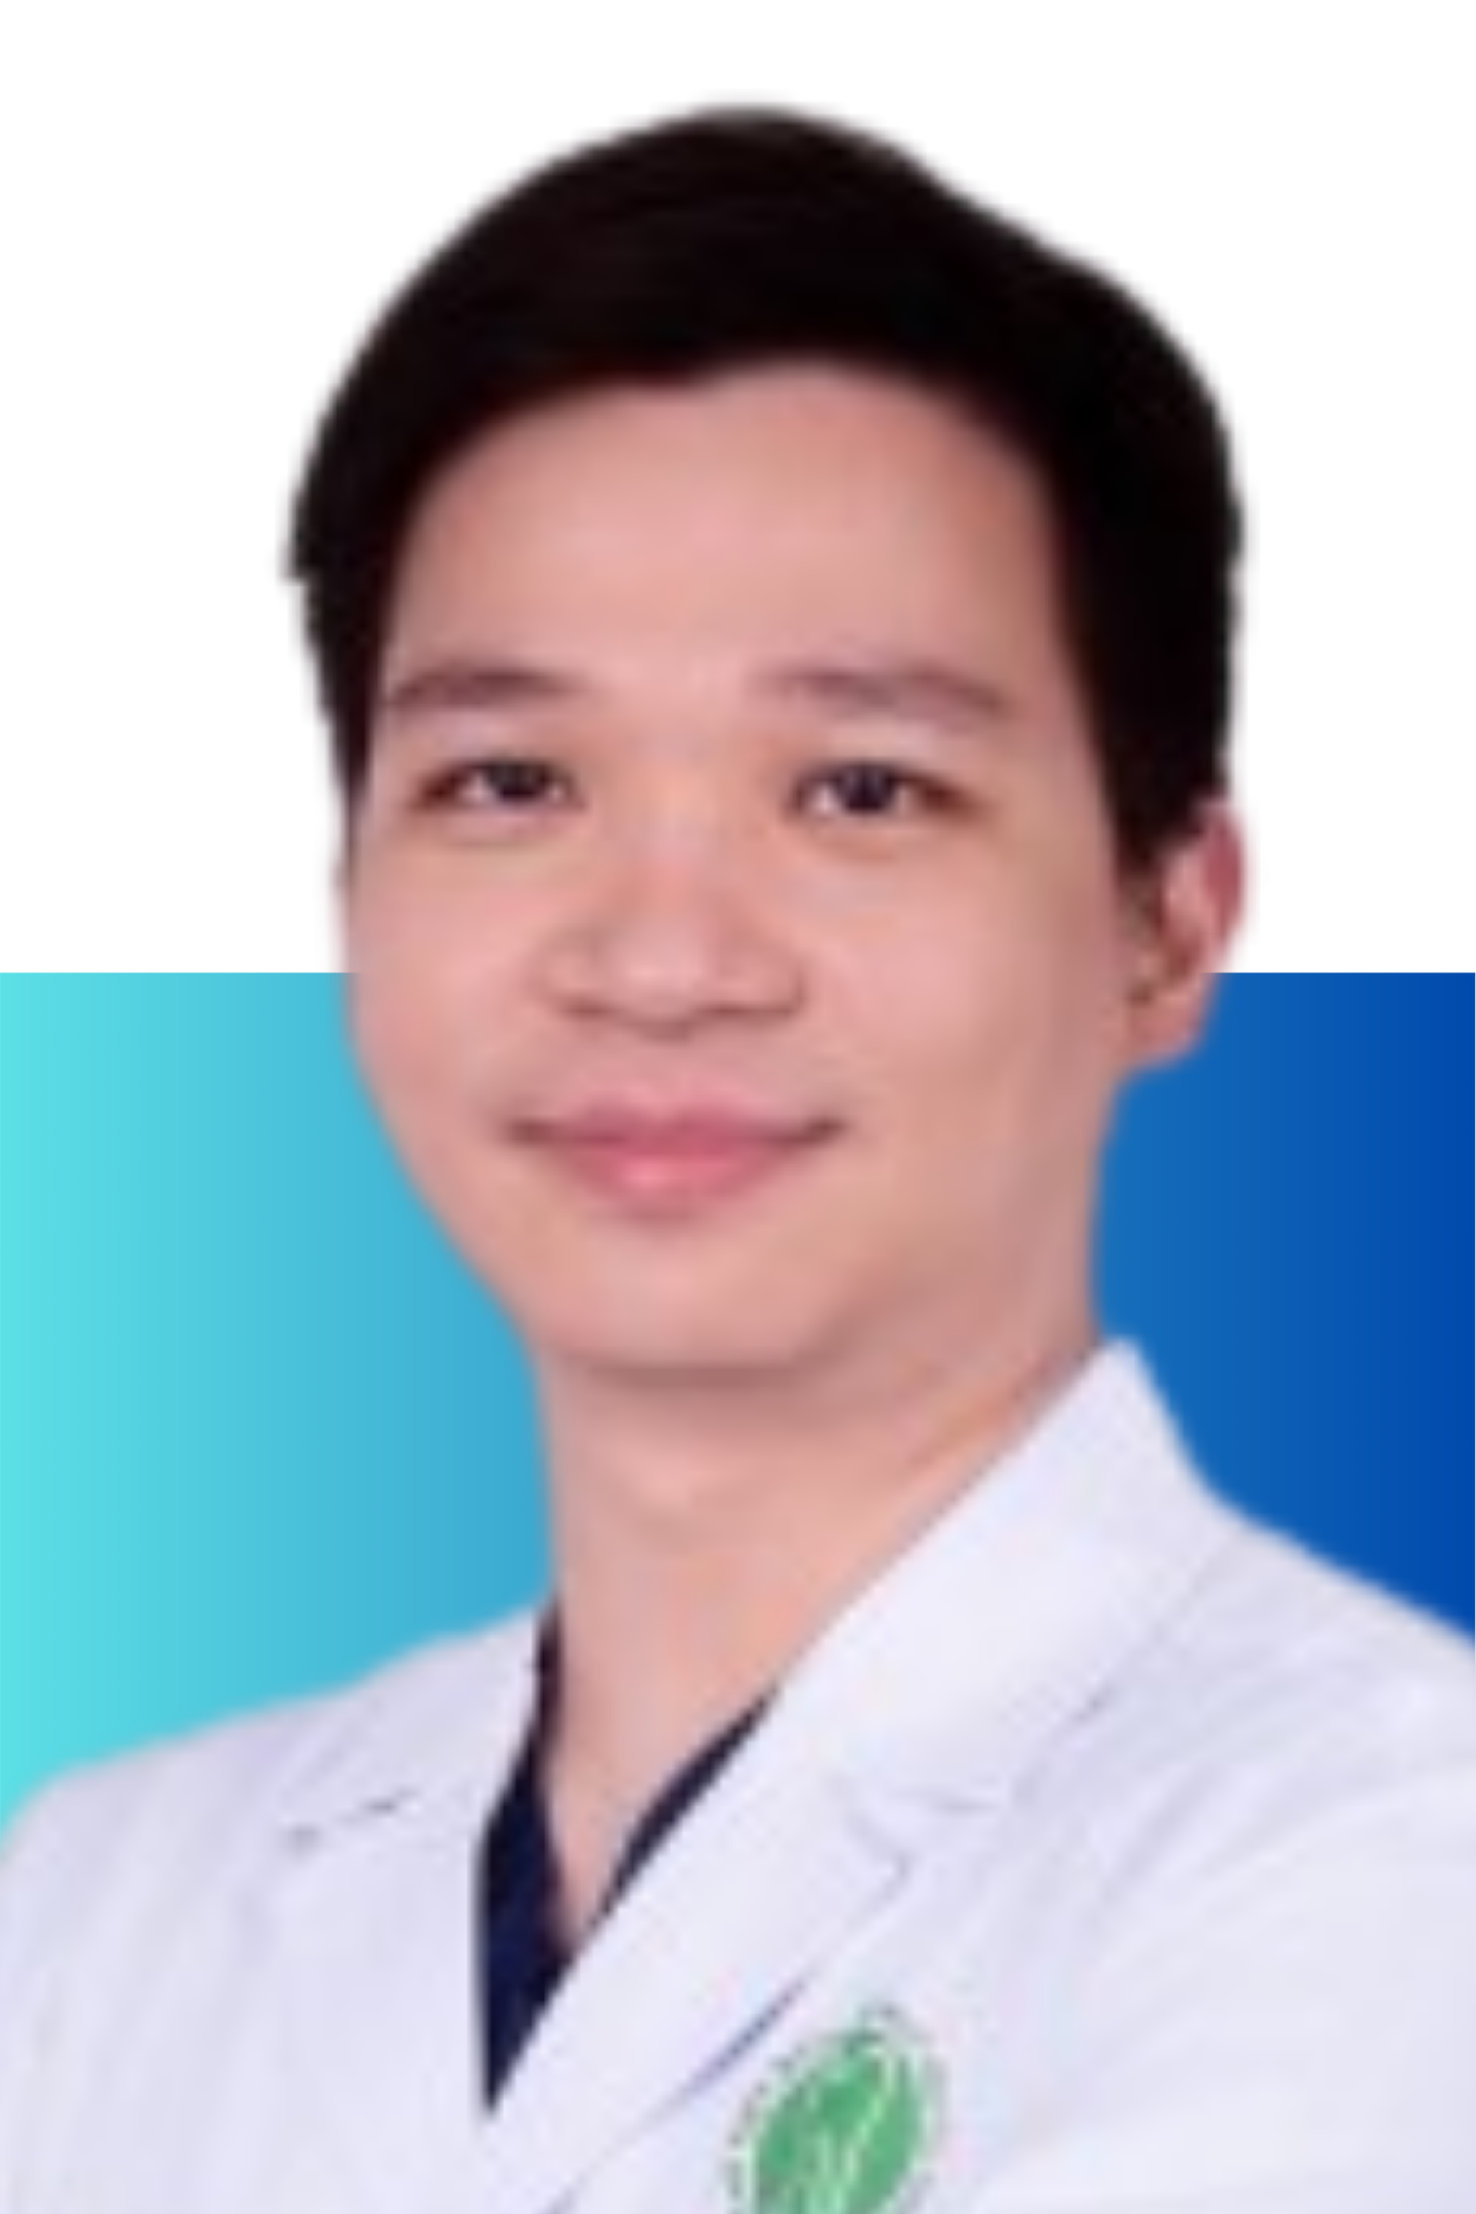
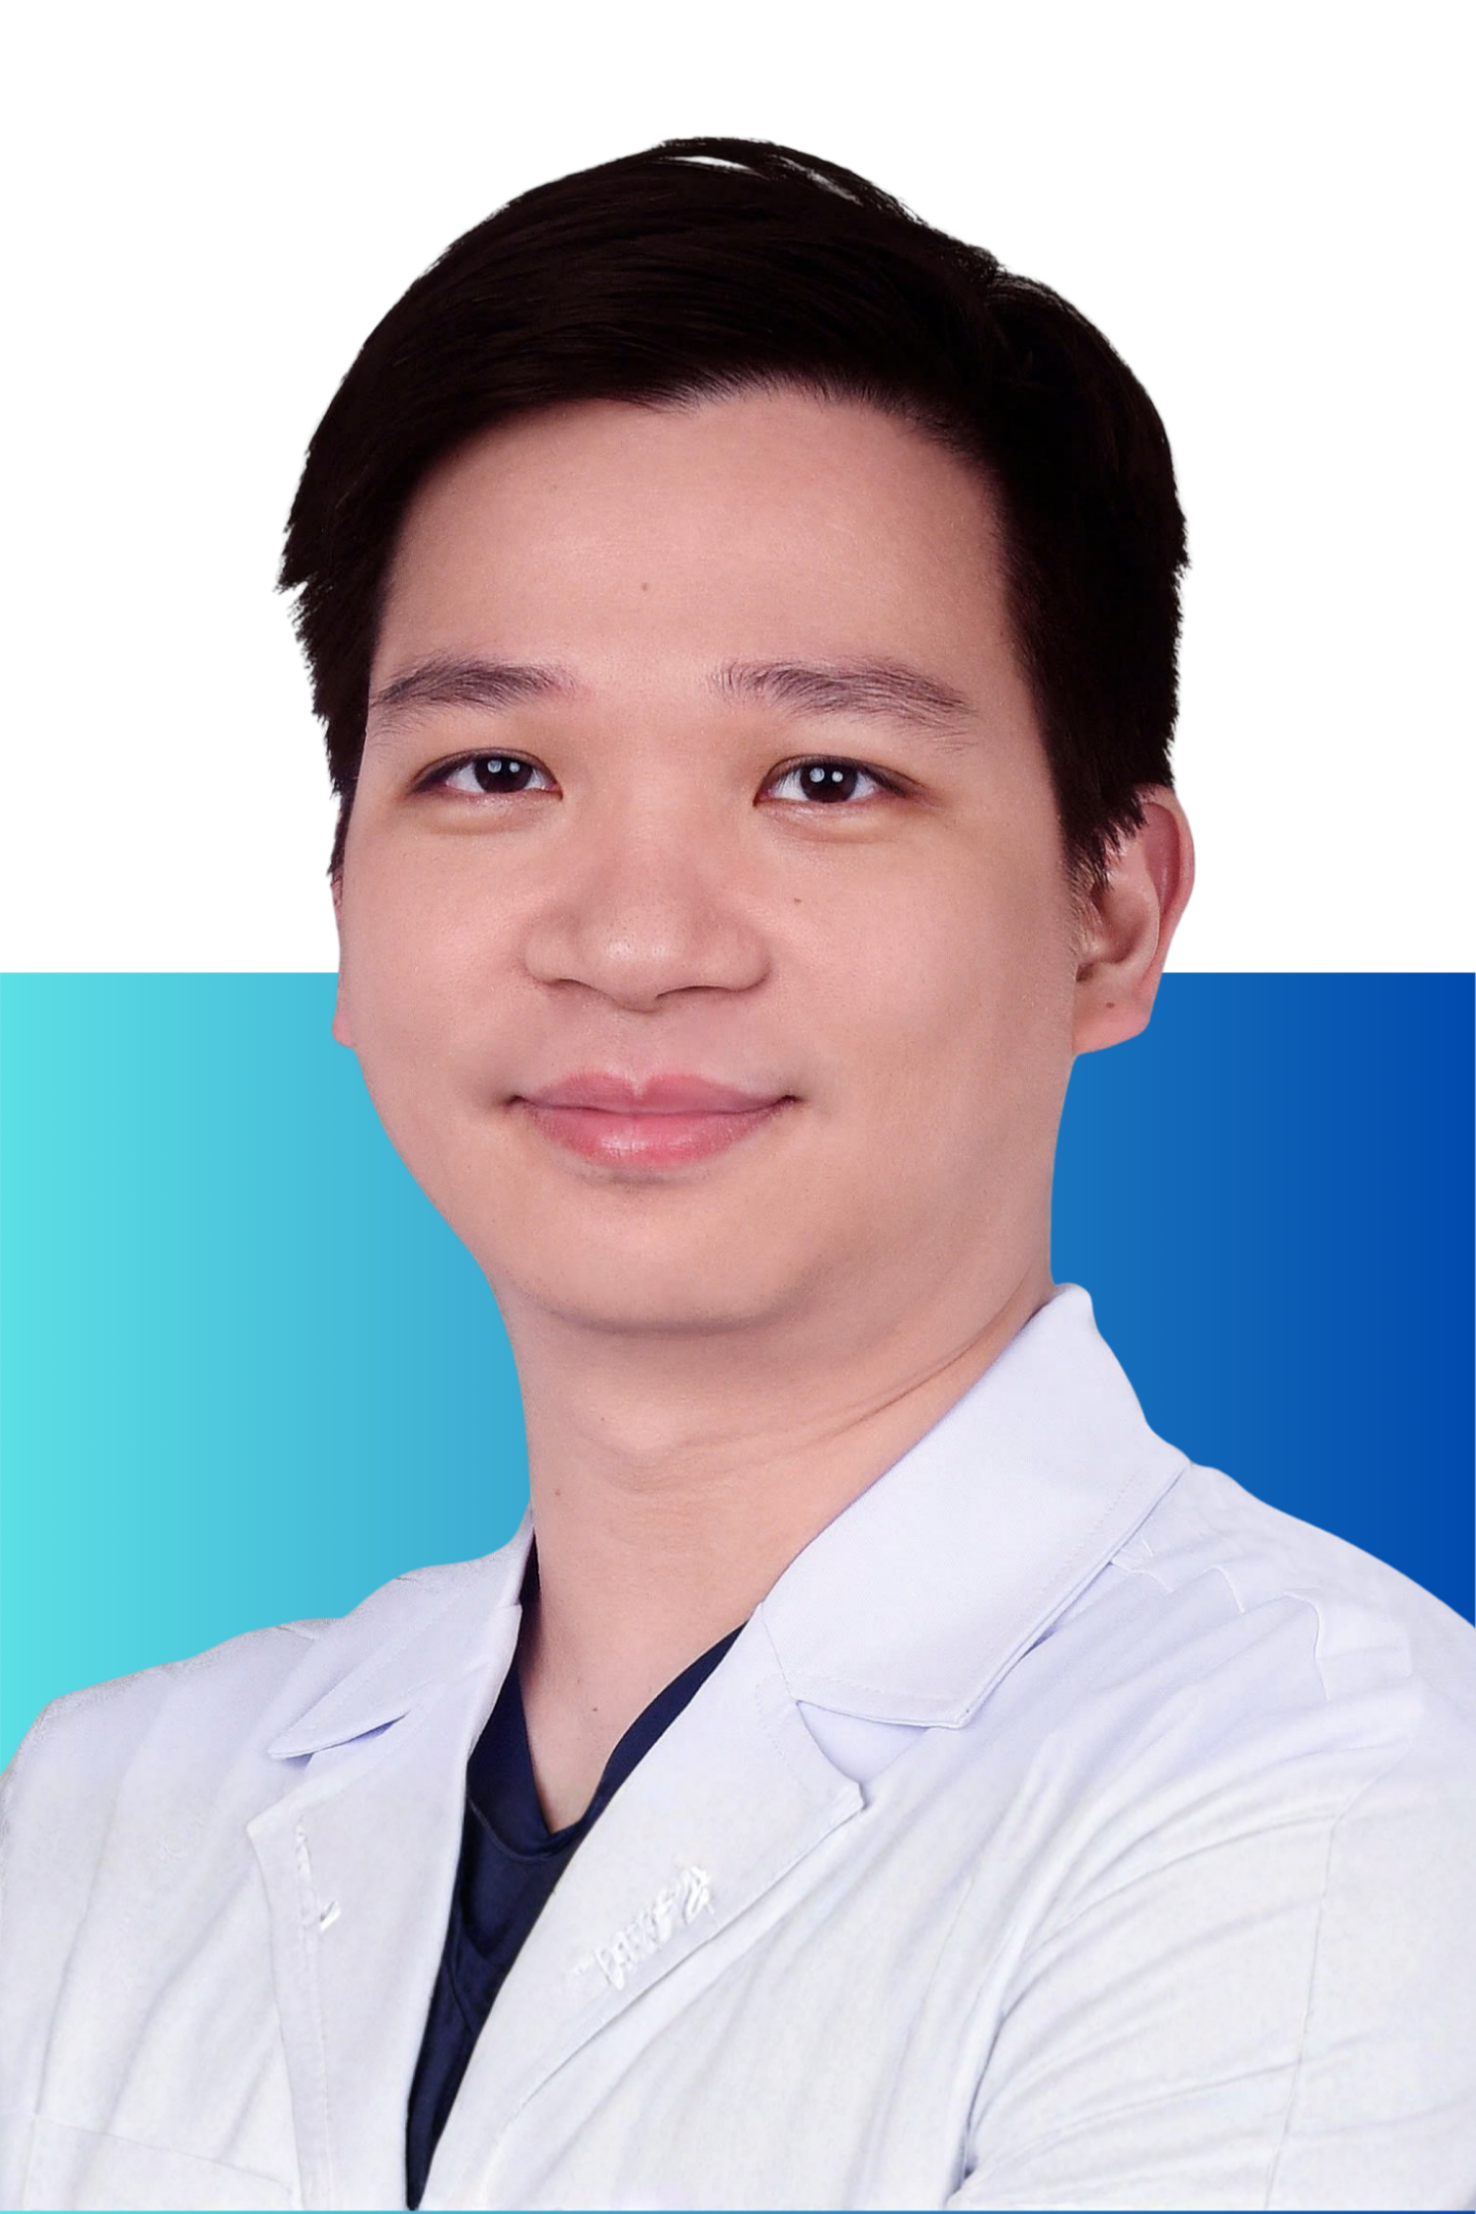
Add files via upload

diff --git a/index1.html b/index1.html
@@ -451,8 +451,8 @@ nav {
   font-size:12px;color:var(--tx2);
   line-height:1.5;font-weight:300;
 }
-@media(max-width:1024px){.faculty-grid{grid-template-columns:repeat(3,1fr)}}
-@media(max-width:768px){.faculty-grid{grid-template-columns:repeat(2,1fr)!important}}
+@media(max-width:1024px){.faculty-grid{grid-template-columns:repeat(3,1fr)}.vn-fac-row{grid-template-columns:repeat(3,1fr)!important}}
+@media(max-width:768px){.faculty-grid{grid-template-columns:repeat(2,1fr)!important}.vn-fac-row{grid-template-columns:repeat(2,1fr)!important}}
 
 /* ═══ SECTION BASE ═══ */
 section{padding:6rem 2.5rem}
@@ -898,6 +898,7 @@ body.is-mobile .day-tabs{top:0!important}
 /* Below-hero embed overrides */
 html,body{margin:0;padding:0;background:var(--dark);}
 body.is-mobile .faculty-grid{grid-template-columns:repeat(2,1fr)!important}
+body.is-mobile .vn-fac-row{grid-template-columns:repeat(2,1fr)!important}
 </style>
 </head>
 <body data-lang="en">
@@ -987,7 +988,7 @@ body.is-mobile .faculty-grid{grid-template-columns:repeat(2,1fr)!important}
 
     <div class="sec-eyebrow en" style="justify-content:center;margin-top:0.5rem">International Faculty</div>
     <div class="sec-eyebrow vi" style="justify-content:center;margin-top:0.5rem">Chuyên gia quốc tế</div>
-    <div style="display:grid;grid-template-columns:repeat(auto-fill,minmax(175px,1fr));gap:1.75rem 1.25rem;margin-bottom:2.5rem;">
+    <div class="vn-fac-row" style="display:grid;grid-template-columns:repeat(4,1fr);gap:1.75rem 1.25rem;margin-bottom:1.75rem;">
       <!-- Breugem, Corstiaan -->
       <div class="faculty-card">
         <img class="faculty-photo" src="https://anh-wq.github.io/cleft-course/breugem1.png" alt="Corstiaan Breugem">
@@ -1020,6 +1021,9 @@ body.is-mobile .faculty-grid{grid-template-columns:repeat(2,1fr)!important}
         <div class="faculty-inst en">Chang Gung Memorial Hospital · Taiwan</div>
         <div class="faculty-inst vi">Bệnh viện Tưởng niệm Trường Canh · Đài Loan</div>
       </div>
+    </div>
+
+    <div class="vn-fac-row" style="display:grid;grid-template-columns:repeat(4,1fr);gap:1.75rem 1.25rem;margin-bottom:2.5rem;">
       <!-- Oh, Tae-Suk -->
       <div class="faculty-card">
         <img class="faculty-photo" src="https://anh-wq.github.io/cleft-course/oh1.png" alt="Tae-Suk Oh">
@@ -1052,19 +1056,12 @@ body.is-mobile .faculty-grid{grid-template-columns:repeat(2,1fr)!important}
         <div class="faculty-inst en">Khon Kaen University · Thailand</div>
         <div class="faculty-inst vi">Đại học Khon Kaen · Thái Lan</div>
       </div>
-      <!-- Yang, Robin -->
-      <div class="faculty-card">
-        <img class="faculty-photo" src="https://anh-wq.github.io/cleft-course/yang1.png" alt="Robin Yang">
-        <div class="faculty-name en">Robin Yang, MD, DDS</div>
-        <div class="faculty-name vi">PGS.BS. Robin Yang</div>
-        <div class="faculty-inst en">Johns Hopkins School of Medicine · USA</div>
-        <div class="faculty-inst vi">Trường Y Johns Hopkins · Hoa Kỳ</div>
-      </div>
     </div>
+
 
     <div class="sec-eyebrow en" style="justify-content:center">Vietnam Faculty</div>
     <div class="sec-eyebrow vi" style="justify-content:center">Chuyên gia Việt Nam</div>
-    <div style="display:grid;grid-template-columns:repeat(auto-fill,minmax(175px,1fr));gap:1.75rem 1.25rem;">
+    <div class="vn-fac-row" style="display:grid;grid-template-columns:repeat(4,1fr);gap:1.75rem 1.25rem;margin-bottom:1.75rem;">
       <!-- Dau, Nguyen Van -->
       <div class="faculty-card">
         <img class="faculty-photo" src="https://anh-wq.github.io/cleft-course/dau1.png" alt="Nguyen Van Dau">
@@ -1097,6 +1094,9 @@ body.is-mobile .faculty-grid{grid-template-columns:repeat(2,1fr)!important}
         <div class="faculty-inst en">Hue Odonto-Stomatology Hospital · Viet Nam</div>
         <div class="faculty-inst vi">Bệnh viện Răng Hàm Mặt Huế · Việt Nam</div>
       </div>
+    </div>
+
+    <div class="vn-fac-row" style="display:grid;grid-template-columns:repeat(4,1fr);gap:1.75rem 1.25rem;margin-bottom:1.75rem;">
       <!-- Huong, Dang Thi Lien -->
       <div class="faculty-card">
         <img class="faculty-photo" src="https://anh-wq.github.io/cleft-course/huong1.png" alt="Dang Thi Lien Huong">
@@ -1121,6 +1121,17 @@ body.is-mobile .faculty-grid{grid-template-columns:repeat(2,1fr)!important}
         <div class="faculty-inst en">Univ. of Medicine and Pharmacy at HCMC · Viet Nam</div>
         <div class="faculty-inst vi">Đại học Y Dược TP.HCM · Việt Nam</div>
       </div>
+      <!-- Phung, Ho Van -->
+      <div class="faculty-card">
+        <img class="faculty-photo" src="https://anh-wq.github.io/cleft-course/phung1.png" alt="Ho Van Phung">
+        <div class="faculty-name en">Ho Van Phung, MD</div>
+        <div class="faculty-name vi">BSCKII. Hồ Vân Phụng</div>
+        <div class="faculty-inst en">Deputy Head, Odonto-Stomatology Dept., Children's Hospital 1 · Viet Nam</div>
+        <div class="faculty-inst vi">Phó Khoa điều hành, Khoa Răng Hàm Mặt, Bệnh viện Nhi Đồng 1 · Việt Nam</div>
+      </div>
+    </div>
+
+    <div class="vn-fac-row" style="display:grid;grid-template-columns:repeat(5,1fr);gap:1.75rem 1.25rem;">
       <!-- Phuong, Tran Dinh -->
       <div class="faculty-card">
         <img class="faculty-photo" src="https://anh-wq.github.io/cleft-course/phuong1.png" alt="Tran Dinh Phuong">

diff --git a/index-mobile.html b/index-mobile.html
@@ -1463,14 +1463,6 @@ body.is-mobile .mobile-hero         { padding-top:0 }
         <div class="faculty-inst vi">Đại học Khon Kaen · Thái Lan</div>
       </div>
 
-      <!-- Yang, Robin -->
-      <div class="faculty-card">
-        <img class="faculty-photo" src="https://anh-wq.github.io/cleft-course/yang1.png" alt="Robin Yang">
-        <div class="faculty-name en">Robin Yang, MD, DDS</div>
-        <div class="faculty-name vi">PGS.BS. Robin Yang</div>
-        <div class="faculty-inst en">Johns Hopkins School of Medicine · USA</div>
-        <div class="faculty-inst vi">Trường Y Johns Hopkins · Hoa Kỳ</div>
-      </div>
     </div>
 
     <!-- Vietnam faculty (A-Z) -->
@@ -1540,6 +1532,14 @@ body.is-mobile .mobile-hero         { padding-top:0 }
         <div class="faculty-inst vi">Đại học Y Dược TP.HCM · Việt Nam</div>
       </div>
 
+      <!-- Phung, Ho Van -->
+      <div class="faculty-card">
+        <img class="faculty-photo" src="https://anh-wq.github.io/cleft-course/phung1.png" alt="Ho Van Phung">
+        <div class="faculty-name en">Ho Van Phung, MD</div>
+        <div class="faculty-name vi">BSCKII. Hồ Vân Phụng</div>
+        <div class="faculty-inst en">Deputy Head, Odonto-Stomatology Dept., Children's Hospital 1 · Viet Nam</div>
+        <div class="faculty-inst vi">Phó Khoa điều hành, Khoa Răng Hàm Mặt, Bệnh viện Nhi Đồng 1 · Việt Nam</div>
+      </div>
       <!-- Phuong, Tran Dinh -->
       <div class="faculty-card">
         <img class="faculty-photo" src="https://anh-wq.github.io/cleft-course/phuong1.png" alt="Tran Dinh Phuong">
